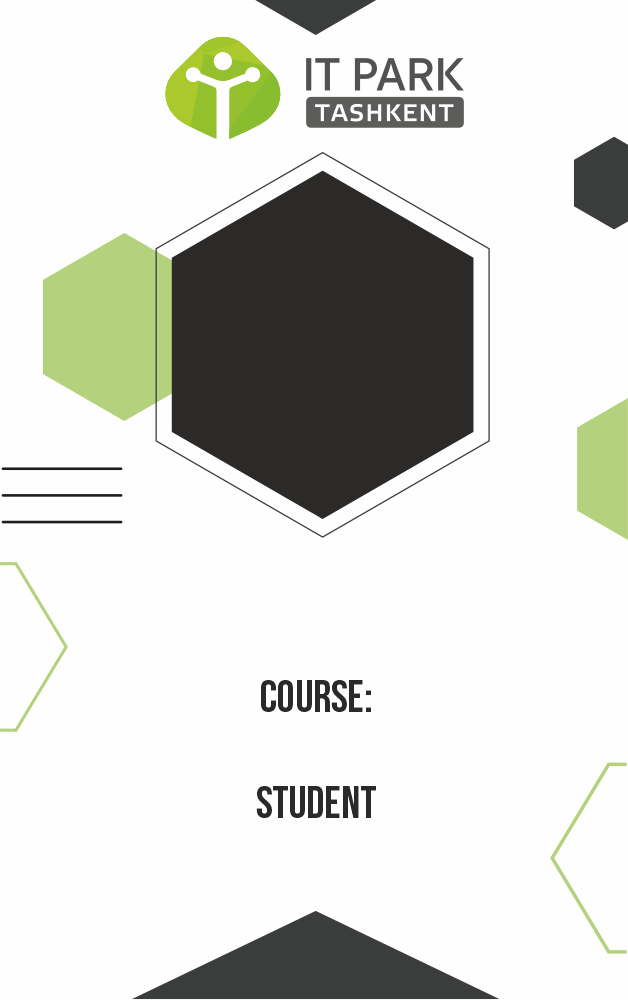
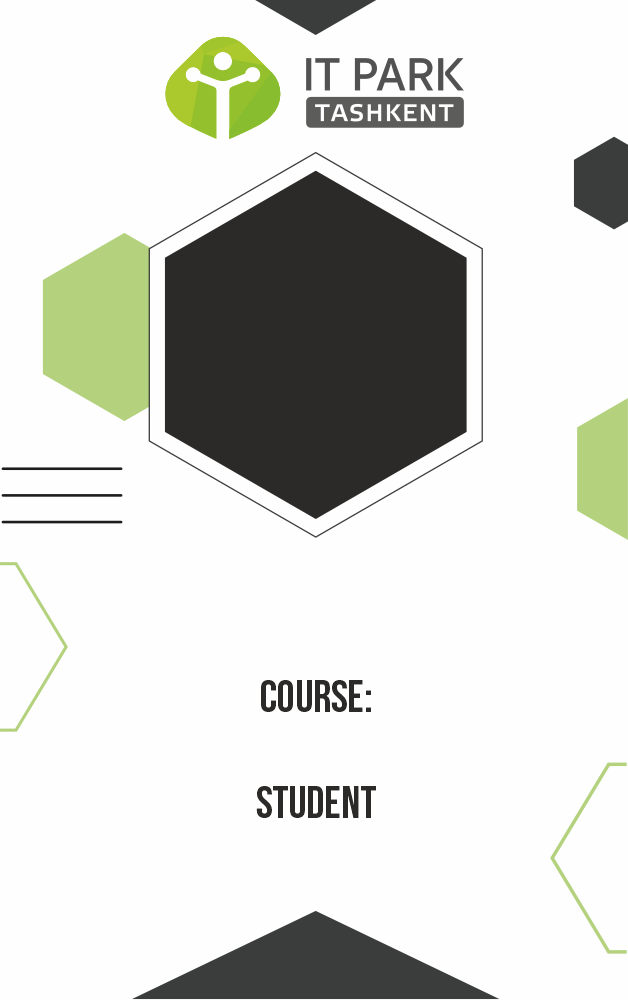
update bot new version

Changed region(s): [[0.2118, 0.155, 0.7866, 0.558]]

diff --git a/run_bot.py b/run_bot.py
@@ -93,8 +93,6 @@ async def load_photo(message: types.Message, state: FSMContext):
         await cm_start(message)
     else:
         await message.photo[-1].download(destination_file=f"{img_name}.png", make_dirs=False)
-        # async with state.proxy() as data:
-        #     data['photo'] = message.photo[0].file_id
         await state.update_data(photo=message.photo[0].file_id)
 
         async with state.proxy() as data:
@@ -106,18 +104,20 @@ async def load_photo(message: types.Message, state: FSMContext):
 
 async def load_make(message: types.Message):
     if message.text == 'Получить ID карту':
-        await message.answer('Готово!', reply_markup=start_button)
         # media = MediaGroup()
         # media.attach(InputMediaDocument(open(f'{img_name}.pdf', 'rb')))
         # await message.reply_media_group(media=media)
         try:
             with open(f'{img_name}.png', 'rb') as fg:
                 await bot.send_document(message.chat.id, InputFile(fg))
-            with open('back.jpg', 'rb') as bg:
-                await bot.send_document(message.chat.id, InputFile(bg))
         except Exception as e:
             print(f"An error: {str(e)}")
+            await message.answer('Ошибка при отправке фотографии', reply_markup=ReplyKeyboardRemove())
+            await asyncio.sleep(1)
+            await cm_start(message)
+            os.system(f'rm {img_name}.png')
 
+        await message.answer('Готово!', reply_markup=start_button)
         os.system(f'rm {img_name}.png')
         print("Image is deleting...")
 

diff --git a/functions.py b/functions.py
@@ -25,7 +25,7 @@ def writer_func(id, fam, name, course, user_img):
 
     kichik_rasim = Image.composite(img2, Image.new("RGBA", img2.size), mask_im)  # keraksiz tomonlarni olib tashlash
     img1 = img1.copy()
-    img1.paste(kichik_rasim, (163, 160), mask_im)  # set hexagon avatar idCard
+    img1.paste(kichik_rasim, (156, 159), mask_im)  # set hexagon avatar idCard
 
 
     draw = ImageDraw.Draw(img1)
@@ -43,21 +43,21 @@ def writer_func(id, fam, name, course, user_img):
 
     # set id
     draw.text(
-        ((W - w0) / 2, 851),
+        ((W - w0) / 2, 839),
         f"ID: {id}", fill='black',
         font=ImageFont.truetype("bebas_regular.ttf", 39),
     ),
 
     # set fam
     draw.text(
-        ((W - w) / 2, 552),
+        ((W - w) / 2, 555),
         fam.upper(), fill='black',
         font=font,
     ),
 
     # set name
     draw.text(
-        ((W - w1) / 2, 602),
+        ((W - w1) / 2, 605),
         name.upper(), fill='black',
         font=font,
     ),

diff --git a/config.py b/config.py
@@ -1,1 +1,2 @@
-token = "6384532641:AAF0e8iMw_ZNb1HGqkr8Kz3-X5KsRPyCgTQ"
+# token = "6384532641:AAF0e8iMw_ZNb1HGqkr8Kz3-X5KsRPyCgTQ"
+token = "5832127868:AAEfZc7CAfce2xPsg9lS8Dcjrsb85v1GoDA"
